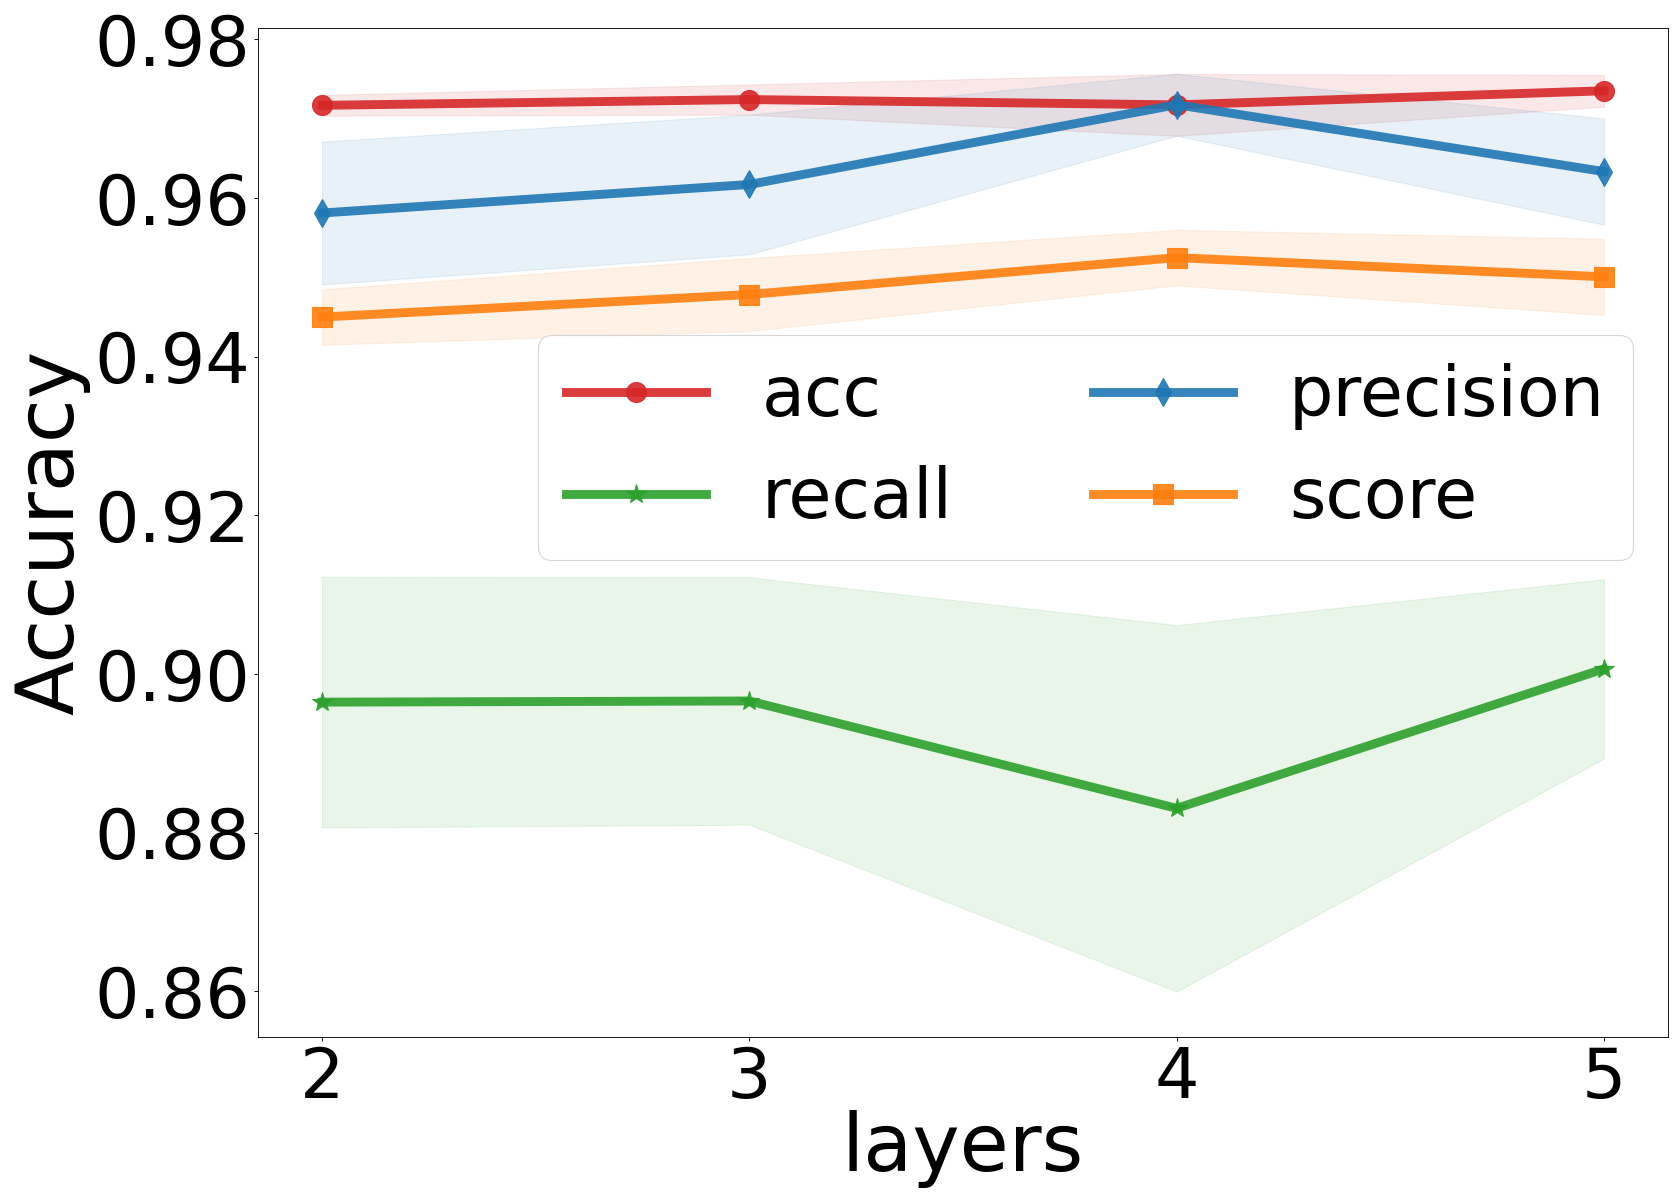
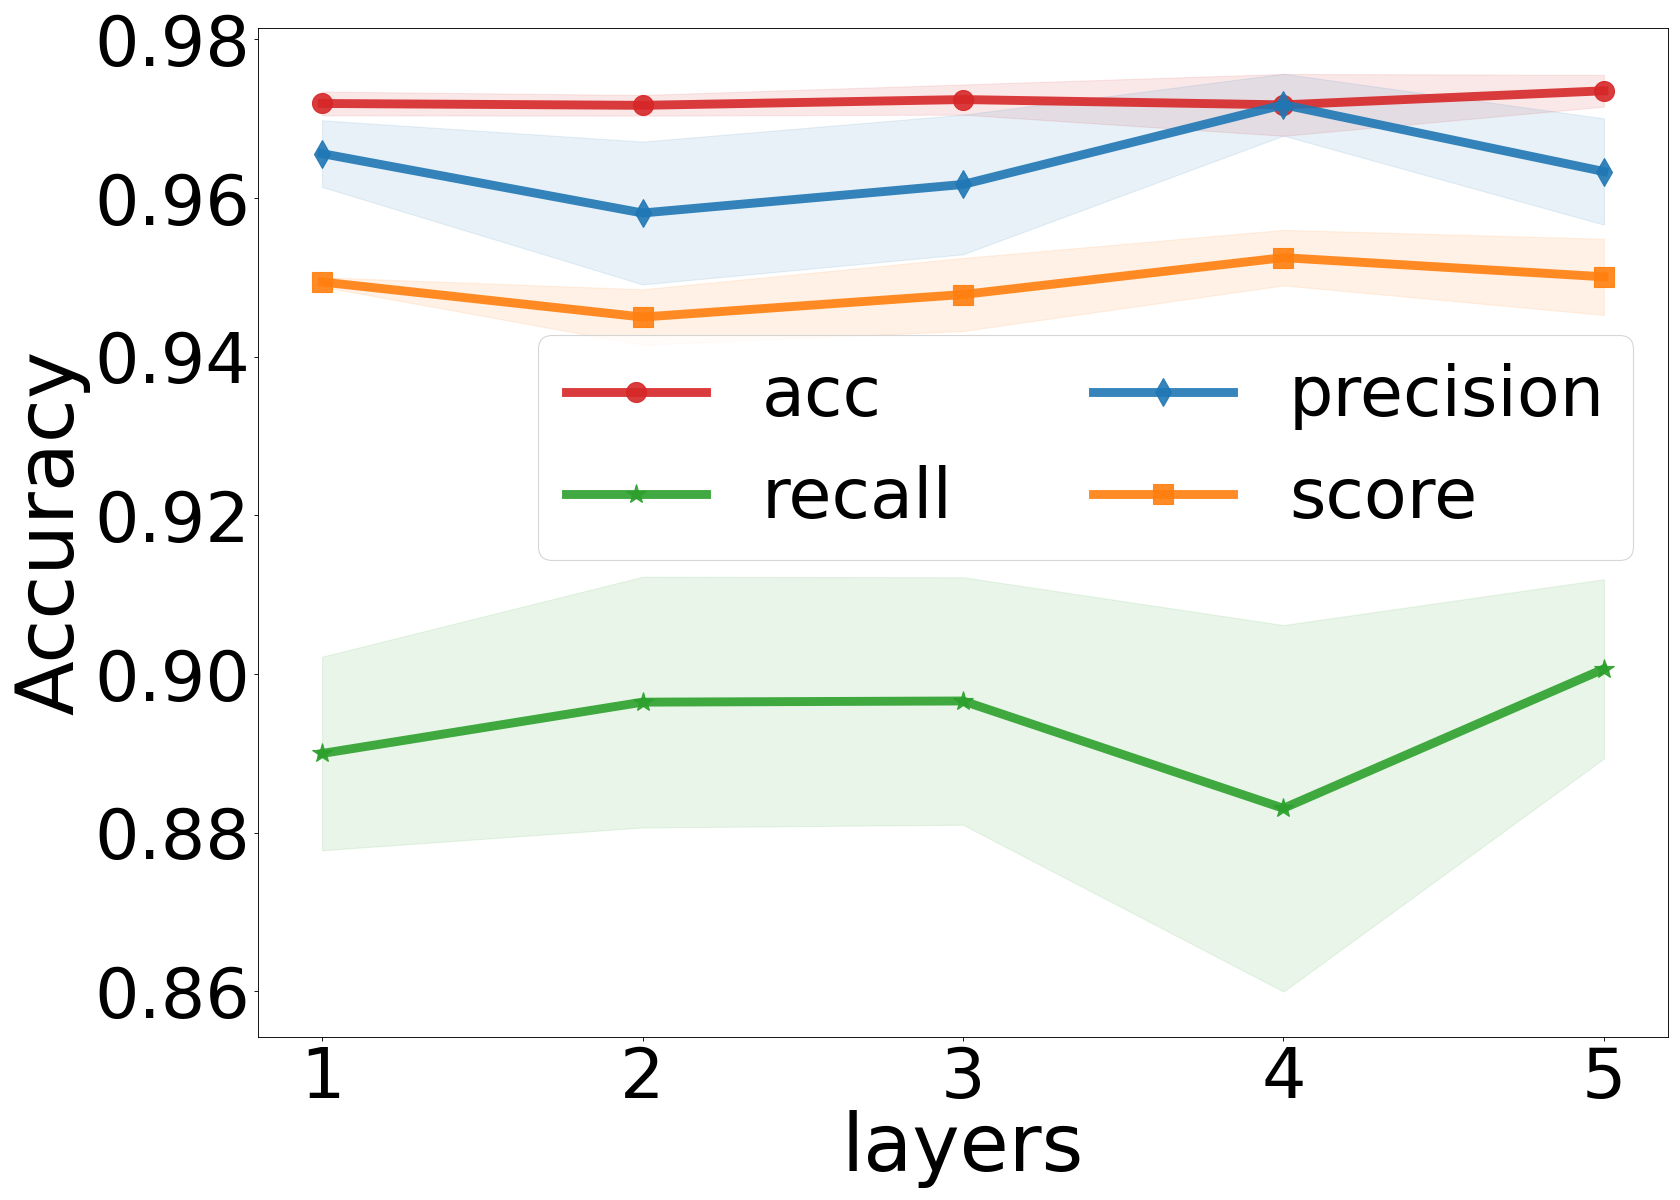
add gcn vary layers

diff --git a/plot_curve.py b/plot_curve.py
@@ -45,9 +45,11 @@ elif args.readtype == 'gcn':
                 line = line.strip('=')
                 jk_idx = line.index('JK:')
                 pooling_idx = line.index('Pooling:')
+                layer_idx = line.index('layer:')
                 jk = line[jk_idx+3:pooling_idx].strip(' ')
-                pooling = line[pooling_idx+len('Pooling:'):].strip(' ')
-                config = 'JK:'+jk+'+Pooling:'+pooling
+                pooling = line[pooling_idx+len('Pooling:'):layer_idx].strip(' ')
+                layer=line[layer_idx+len('layer:'):].strip(' ')
+                config = 'JK:'+jk+'+Pooling:'+pooling+'+layer'+layer
                 configs.append(config)
                 variant_cnt += 1
             else:
@@ -113,8 +115,11 @@ plt.xlabel('layers', fontsize=fontsize, labelpad=-2)
 plt.ylabel('Accuracy', fontsize=fontsize)
 plt.xticks(range(len(x_str)), x_str, fontsize=ticks_fontsize, rotation=0)
 plt.yticks(fontsize=ticks_fontsize)
-# plt.legend(loc='upper right', bbox_to_anchor=(1, 2), ncol=2, fontsize=legend_fontsize)
-plt.legend(loc='upper right', bbox_to_anchor=(1, 0.73), ncol=2, fontsize=legend_fontsize)
+if args.datafile == 'gcn_split2_vary_layers.txt':
+    plt.ylim(0.875, 0.985)
+    plt.legend(loc='lower left', bbox_to_anchor=(0.1, 0), ncol=1, fontsize=legend_fontsize)
+else:
+    plt.legend(loc='upper right', bbox_to_anchor=(1, 0.73), ncol=2, fontsize=legend_fontsize)
 plt.tight_layout()
 import os
 if not os.path.exists(args.outdir):

diff --git a/README.md b/README.md
@@ -63,6 +63,10 @@
 ### plot_curve.py
 
 例如，
+* gcn不同layer结果画图：
+    ```python
+    python plot_curve.py --datafile gcn_split2_vary_layers.txt --readtype gcn
+    ```
 * gat不同layer结果画图：
     ```python
     python plot_curve.py --datafile gat_split2_vary_layers.txt --readtype gat
